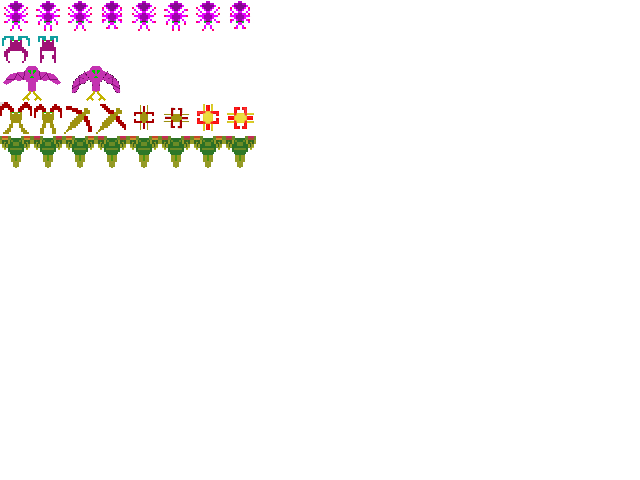
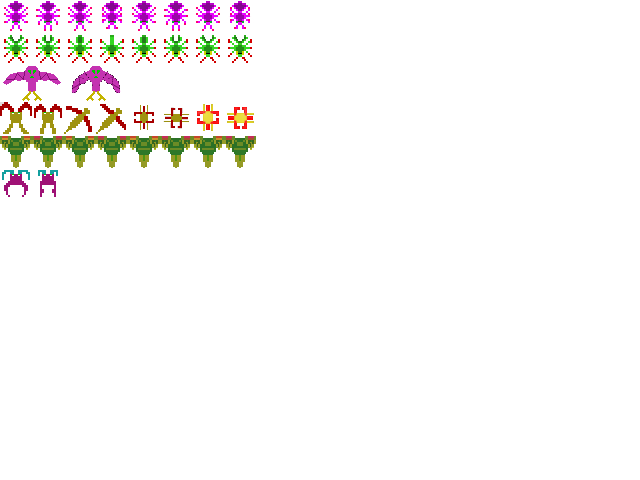
Add files via upload

Changed region(s): [[0.0, 0.0625, 0.4062, 0.125], [0.0, 0.3438, 0.0938, 0.4062]]

diff --git a/src/level.js b/src/level.js
@@ -6,10 +6,18 @@ export default class Level {
     this.blocks = [];
     if (level === 0) {
       this.enemies.push(
-        new Enemy(336, 30, 0, "./enemies.png"),
-        new Enemy(432, 30, 0, "./enemies.png"),
-        new Enemy(528, 30, 0, "./enemies.png"),
-        new Enemy(624, 30, 0, "./enemies.png")
+        new Enemy(240, 70, 0, "./enemies.png"),
+        new Enemy(280, 70, 1, "./enemies.png"),
+        new Enemy(320, 70, 0, "./enemies.png"),
+        new Enemy(360, 70, 1, "./enemies.png"),
+        new Enemy(240, 110, 0, "./enemies.png"),
+        new Enemy(280, 110, 1, "./enemies.png"),
+        new Enemy(320, 110, 0, "./enemies.png"),
+        new Enemy(360, 110, 1, "./enemies.png"),
+        new Enemy(280, 150, 0, "./enemies.png"),
+        new Enemy(320, 150, 1, "./enemies.png"),
+        new Enemy(280, 190, 0, "./enemies.png"),
+        new Enemy(320, 190, 1, "./enemies.png")
       );
       /*this.blocks.push(
         new Block(300, 300, "./block.png"),

diff --git a/src/game.js b/src/game.js
@@ -203,8 +203,10 @@ export default class Game {
   moveEnemies(delta) {
     this.enemies.forEach((enemy, i) => {
       if (this.enemyCharging === false) {
-        enemy.position.x =
-          300 + 270 * Math.sin(this.ticks * 0.02) + i * (32 * 2);
+        enemy.position.x = (enemy.startXPosition) + 50 + 270 * Math.sin(this.ticks * 0.02);
+
+        //enemy.position.x =
+        //300 + 270 * Math.sin(this.ticks * 0.02) + (i % 5) * 64; //i* (32 * 2);
         if (Math.random() > 0.98) {
           this.shootBullet(enemy);
         }
@@ -252,8 +254,7 @@ export default class Game {
             );
           }
         } else {
-          enemy.position.x =
-            300 + 270 * Math.sin(this.ticks * 0.02) + i * (32 * 2);
+          enemy.position.x = (enemy.startXPosition) + 50 + 270 * Math.sin(this.ticks * 0.02);
           if (Math.random() > 0.99) {
             this.shootBullet(enemy);
           }

diff --git a/src/sprite.js b/src/sprite.js
@@ -3,6 +3,7 @@ export default class Sprite {
     image,
     sourceWidth,
     sourceHeight,
+    sourceY,
     position,
     width,
     height,
@@ -13,6 +14,8 @@ export default class Sprite {
     this.image = image;
     this.sourceWidth = sourceWidth;
     this.sourceHeight = sourceHeight;
+
+    this.sourceY = sourceY;
     this.position = position;
     this.width = width;
     this.height = height;
@@ -41,7 +44,7 @@ export default class Sprite {
     ctx.drawImage(
       this.image,
       this.sourceWidth * this.frameIndex, // source x
-      0, // source y
+      this.sourceY, // source y
       this.sourceWidth,
       this.sourceHeight,
       this.position.x,
@@ -49,6 +52,5 @@ export default class Sprite {
       this.width,
       this.height
     );
-    //console.log("drawn");
   }
 }

diff --git a/src/enemy.js b/src/enemy.js
@@ -10,6 +10,7 @@ export default class Enemy {
       x: 0,
       y: 0
     };
+    this.startXPosition = xPos;
     this.position = {
       x: xPos,
       y: yPos
@@ -20,6 +21,7 @@ export default class Enemy {
     this.bulletImage.src = "./enemyBullet.png";
     this.sourceWidth = 32;
     this.sourceHeight = 32;
+    this.sourceY = enemyType === 0 ? 0 : 32;
     this.numberOfFrames = 8;
     this.frameDuration = 15;
     this.repeatAnimation = true;
@@ -27,6 +29,7 @@ export default class Enemy {
       this.image,
       this.sourceWidth,
       this.sourceHeight,
+      this.sourceY,
       this.position,
       this.width,
       this.height,

diff --git a/src/player.js b/src/player.js
@@ -26,6 +26,7 @@ export default class Player {
     this.bulletImage.src = "./playerBullet.png";
     this.sourceWidth = 16;
     this.sourceHeight = 16;
+    this.sourceY = 0;
     this.numberOfFrames = 4;
     this.frameDuration = 15;
     this.repeatAnimation = true;
@@ -33,6 +34,7 @@ export default class Player {
       this.playerImage,
       this.sourceWidth,
       this.sourceHeight,
+      this.sourceY,
       this.position,
       this.width,
       this.height,

diff --git a/src/explosion.js b/src/explosion.js
@@ -22,6 +22,7 @@ export default class Explosion {
       this.image,
       this.sourceWidth,
       this.sourceHeight,
+      0,
       this.position,
       this.width,
       this.height,

diff --git a/src/bullet.js b/src/bullet.js
@@ -23,6 +23,7 @@ export default class Bullet {
       this.image,
       this.sourceWidth,
       this.sourceHeight,
+      0,
       this.position,
       this.width,
       this.height,

diff --git a/src/block.js b/src/block.js
@@ -23,6 +23,7 @@ export default class Block {
       this.image,
       this.sourceWidth,
       this.sourceHeight,
+      0,
       this.position,
       this.width,
       this.height,
